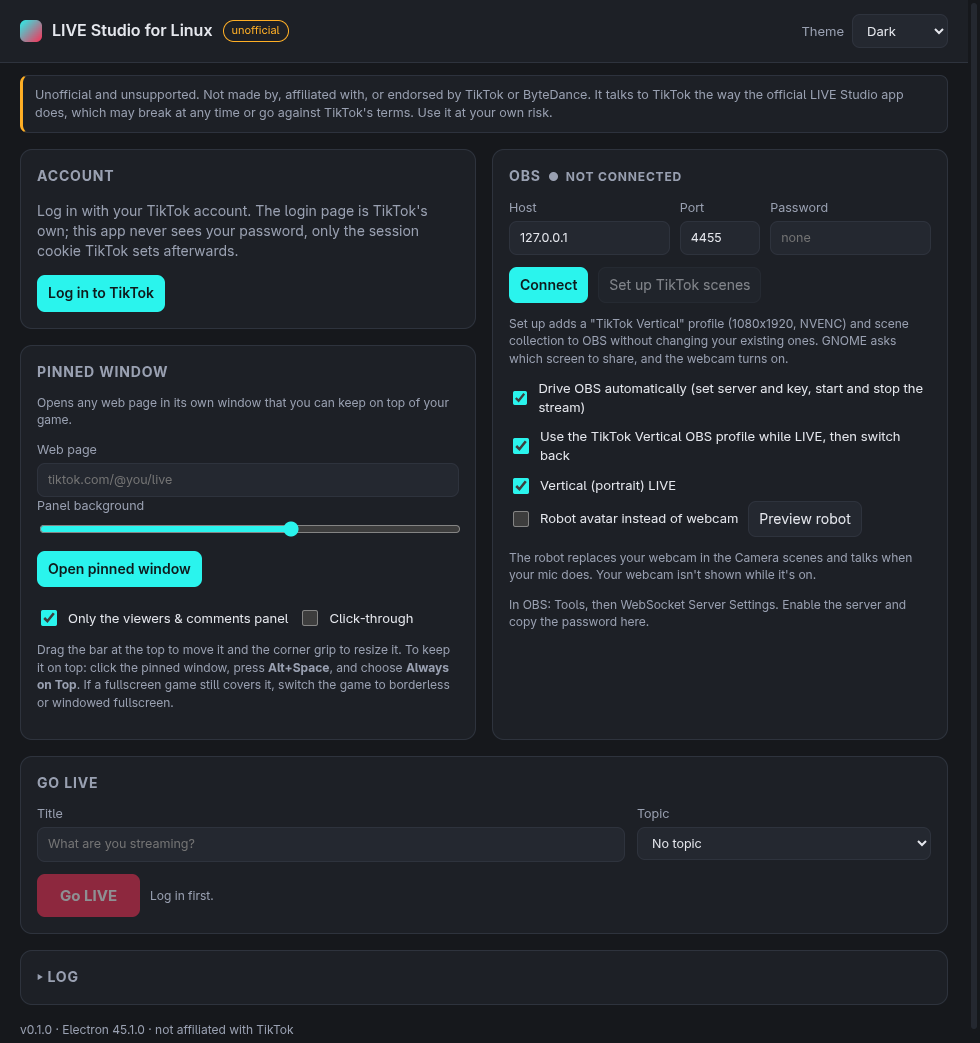
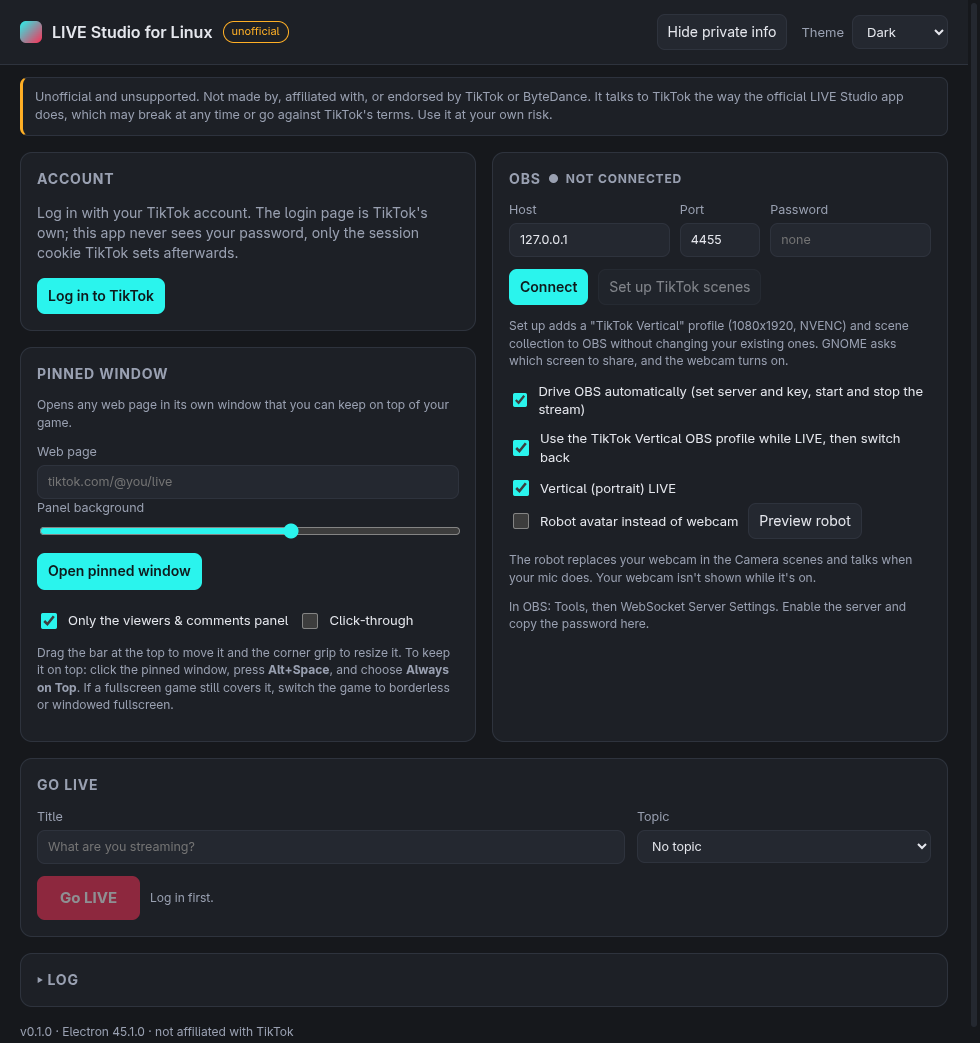
README: screenshot with the Hide private info button

diff --git a/README.md b/README.md
@@ -2,7 +2,7 @@
 
 **Go LIVE on TikTok from Linux with OBS Studio, without a stream key.** LIVE Studio for Linux is an unofficial, open-source alternative to TikTok LIVE Studio, which TikTok makes for Windows and macOS only. It handles the TikTok side (logging in, creating the LIVE, getting the stream URL, and ending the LIVE) and drives OBS for capture and encoding. It ships as an AppImage for x86_64 Linux.
 
-![LIVE Studio for Linux: the main window with account, OBS, pinned window, and Go LIVE panels](docs/images/app.png)
+![LIVE Studio for Linux: the main window with account, OBS, pinned window, and Go LIVE panels, and a Hide private info button in the top bar](docs/images/app.png)
 
 > **Unofficial and unsupported.** This project is not made by, affiliated with, or endorsed by TikTok or ByteDance. TikTok publishes LIVE Studio for Windows and macOS only. This app talks to TikTok's servers the same way the official LIVE Studio app does, using your own login. TikTok can change or block that at any time, and using a client TikTok didn't make might go against [TikTok's Terms of Service](https://www.tiktok.com/legal/page/us/terms-of-service/en). Your account is your responsibility. There is no warranty and no support. If you need something reliable, use TikTok's official tools.
 
